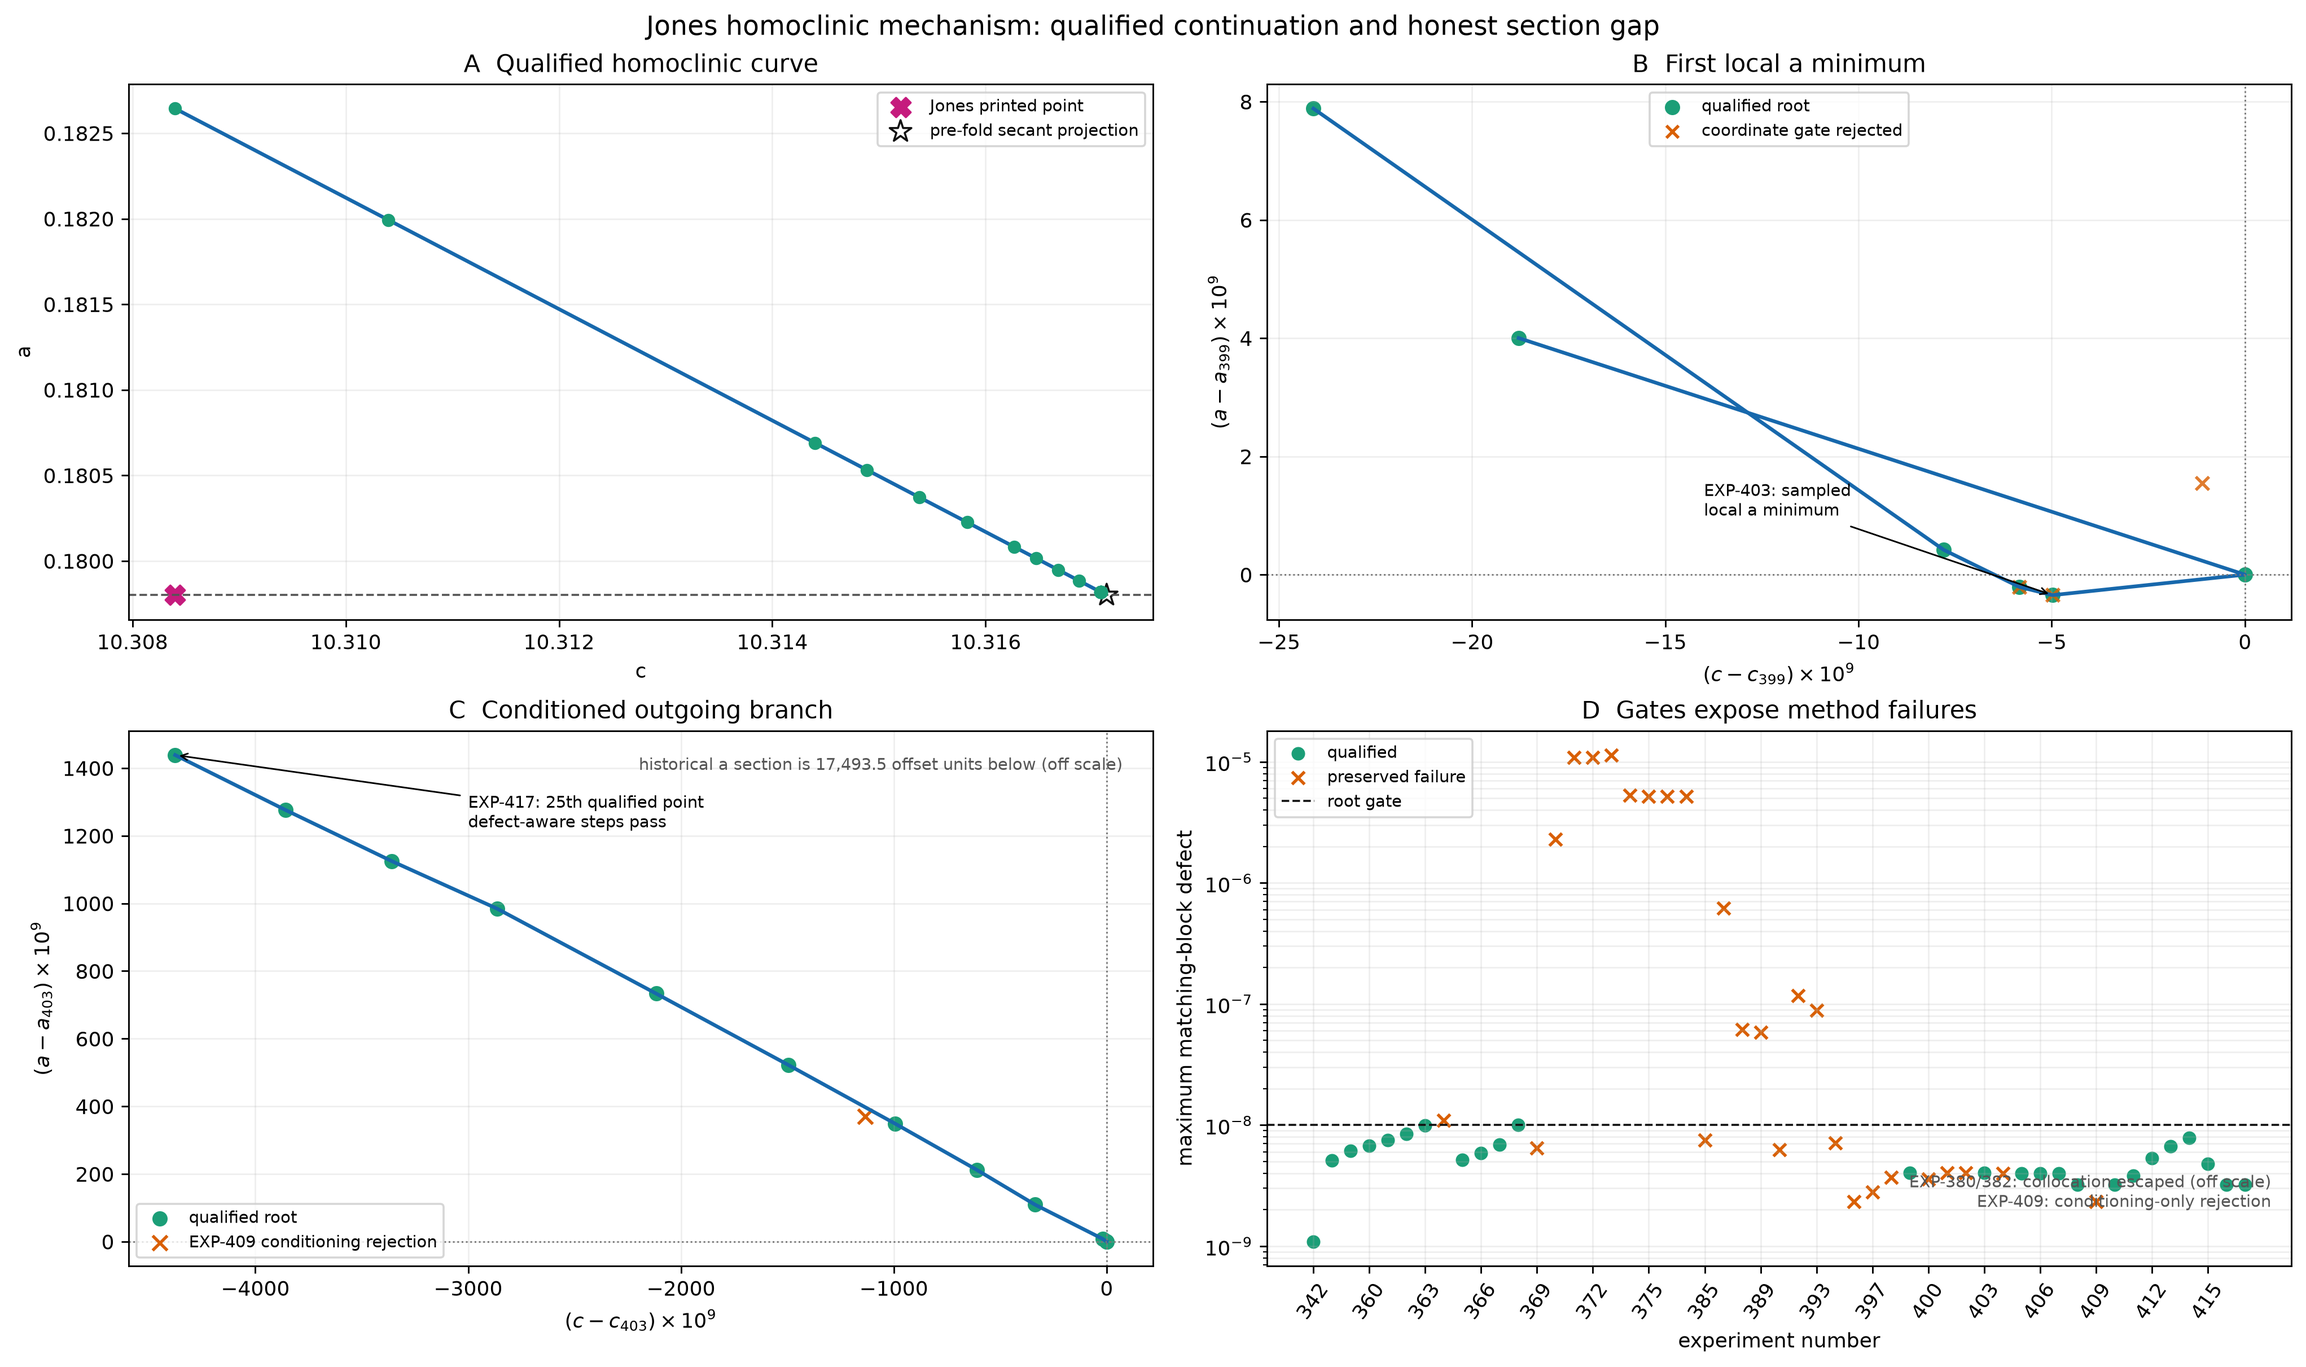
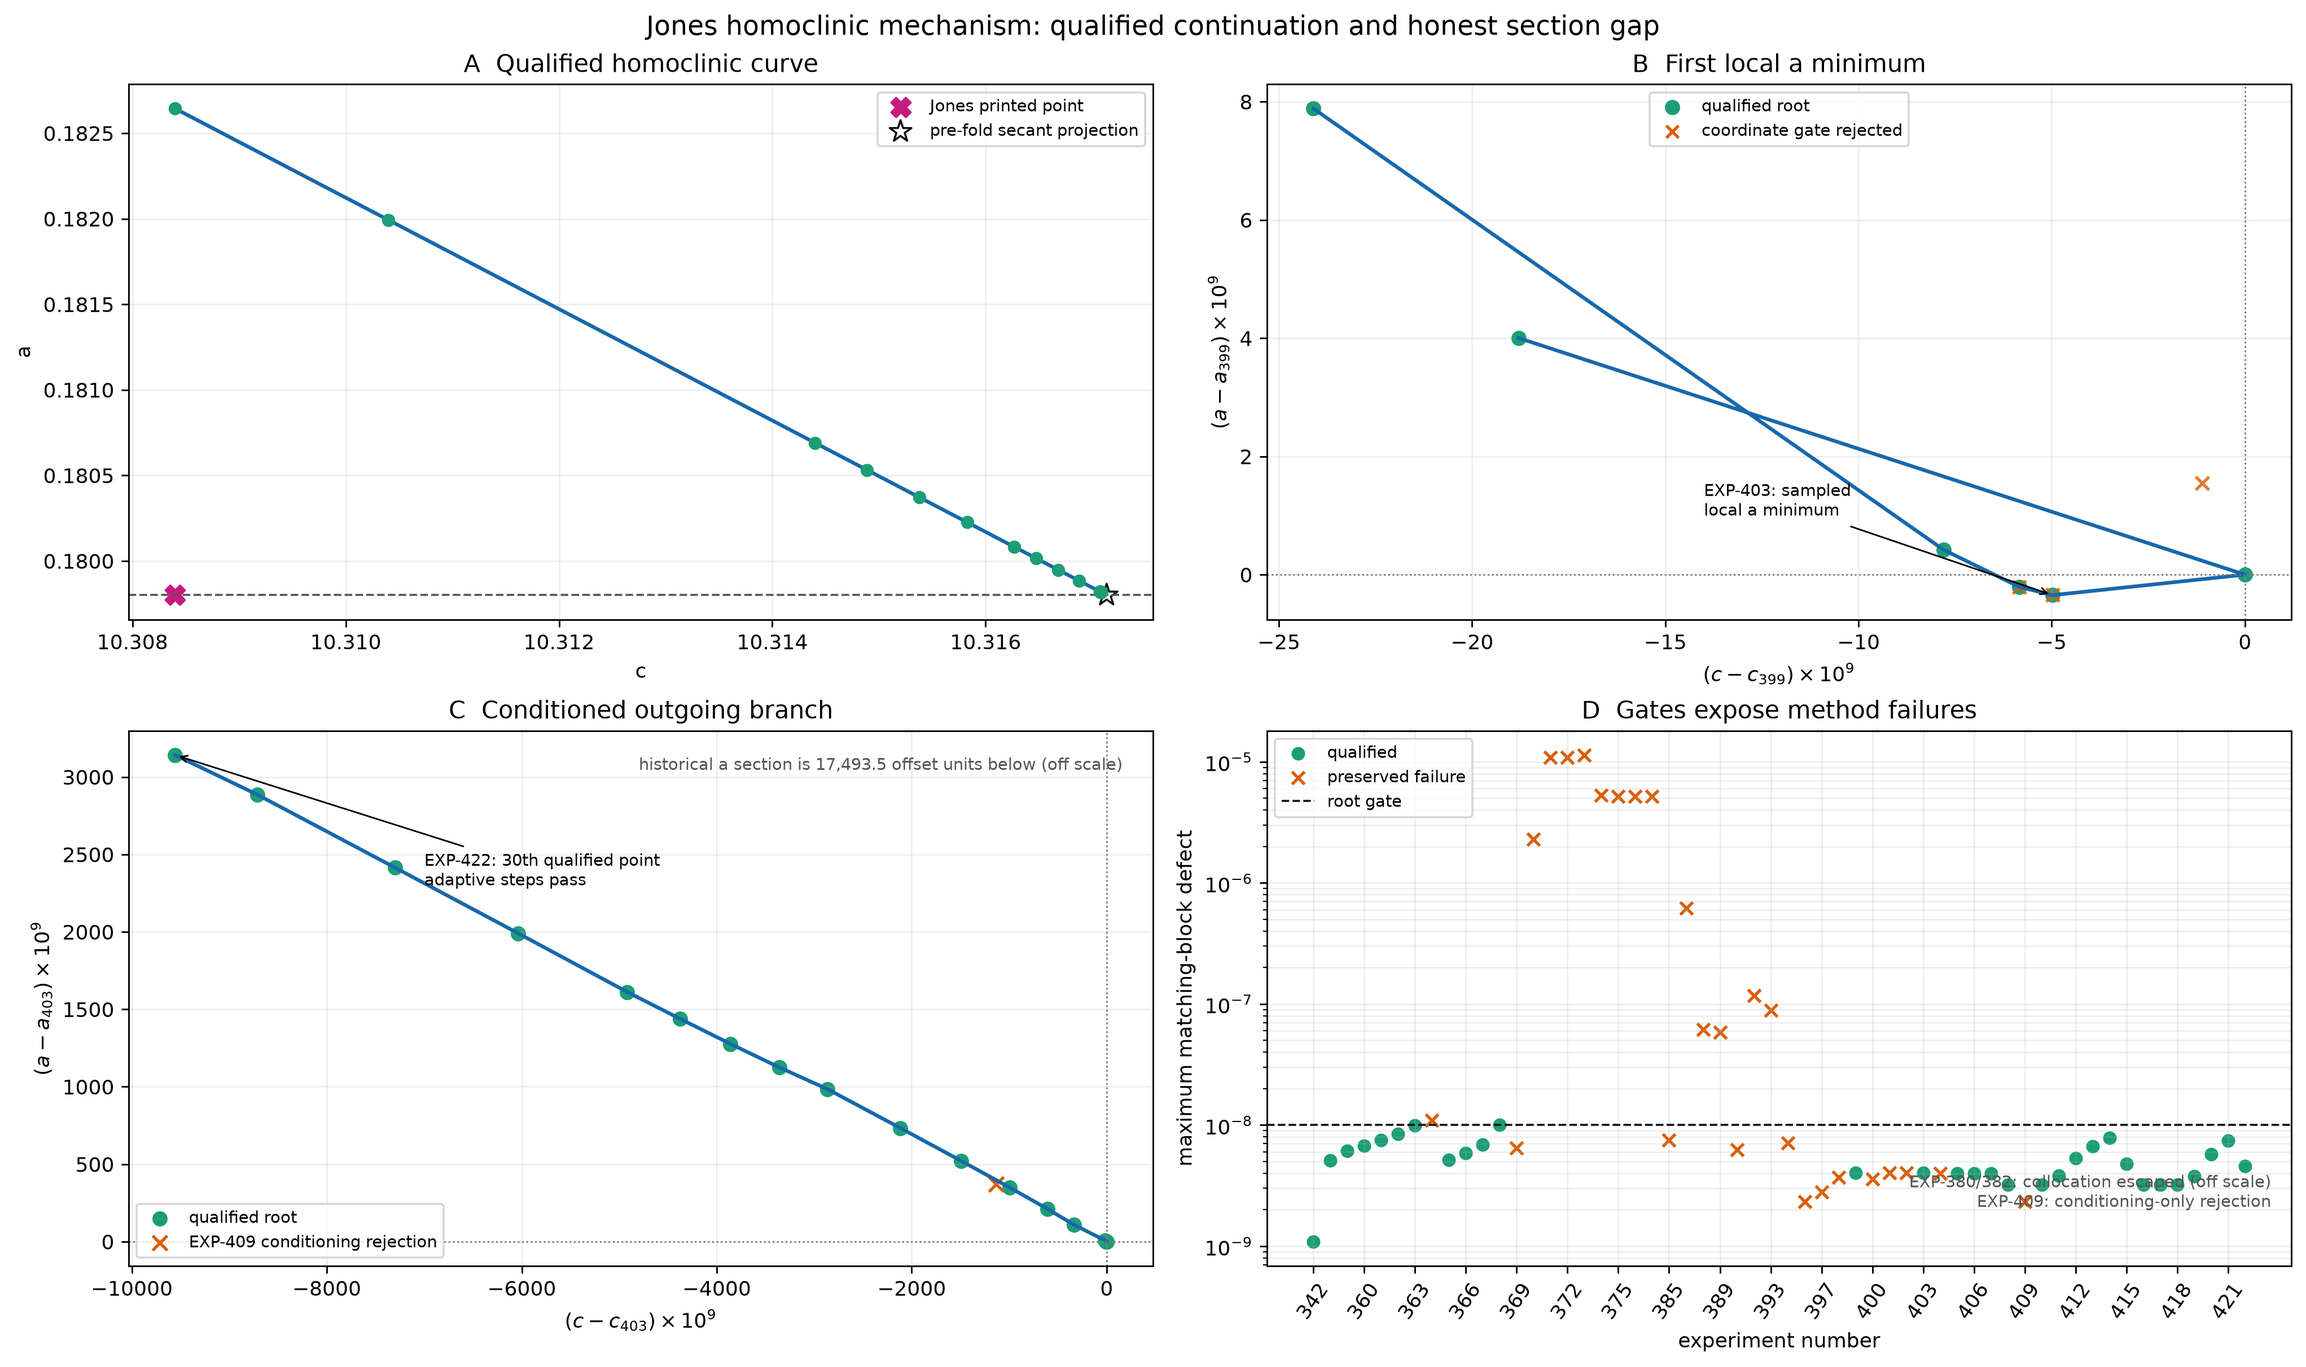
Render thirty-point homoclinic checkpoint

diff --git a/paper/sections/04-results.tex b/paper/sections/04-results.tex
@@ -169,8 +169,16 @@ $4.76\times10^{-9}$, and two further smaller steps reach
   (a,c)=(0.1798189322263,10.3170771259104)
 \]
 with $3.20\times10^{-9}$ maximum block defect and
-$1.17\times10^{-9}$ smallest measured singular value.  Thus twenty-five roots
-are qualified and the outgoing arm has passed eight consecutive newly
+$1.17\times10^{-9}$ smallest measured singular value.  Five further
+qualified points recompute the tangent at every root.  EXP-419--421 pass three
+consecutive doubled steps; when the defect rises to $73.9\%$ of its frozen
+gate, EXP-422 returns prospectively to the proven smaller step and reaches
+\[
+  (a,c)=(0.1798206348114,10.3170719468639)
+\]
+with $4.58\times10^{-9}$ maximum block defect and
+$1.10\times10^{-9}$ smallest measured singular value.  Thus thirty roots are
+qualified and the outgoing arm has passed thirteen consecutive newly
 computed tangents after EXP-408.  The first observed local turn moves away from the historical
 fixed-$a$ section, so it does not provide the printed intersection.  A later
 turn or another branch remains possible and global nonintersection is not
@@ -195,11 +203,11 @@ claimed.
   \centering
   \includegraphics[width=\textwidth]{figures/fig30-exp342-382-homoclinic-continuation.png}
   \caption{Continuation of the qualified homoclinic candidate toward Jones's
-  printed $a=0.1798$ section.  A: twenty-five qualified roots through EXP-417 and
+  printed $a=0.1798$ section.  A: thirty qualified roots through EXP-422 and
   the pre-fold EXP-367/368 secant extrapolation.  B: a nanoscopic offset view
   resolves the first sampled local minimum in $a$ and separates qualified
   signed-arclength steps from coordinate-gate rejections.  C: the outgoing
-  branch, the defect-aware step reduction, and EXP-409 conditioning-only
+  branch, defect-aware step control, and EXP-409 conditioning-only
   rejection show why adaptive step size is required.  D: every accepted point remains
   below the prospective $10^{-8}$ maximum-block-defect gate; the preserved
   failures expose conditioning and method limits rather than silently

diff --git a/paper/sections/07-conclusion.tex b/paper/sections/07-conclusion.tex
@@ -11,17 +11,18 @@ root lies about $0.00284361$ above printed $a=0.1798$.  A declared uniqueness
 audit remains open, and the numerical qualification is not a computer-assisted
 existence proof.  Two qualified natural-continuation points produce a plausible
 secant crossing near $c=10.31714$, but fixed-$c$ and fixed-$a$ correctors
-reproducibly stall above the root gate.  Twenty-two gauge-aligned two-parameter
-pseudo-arclength points through as many as 512 arcs pass, yielding twenty-five
+reproducibly stall above the root gate.  Twenty-seven gauge-aligned two-parameter
+pseudo-arclength points through as many as 512 arcs pass, yielding thirty
 qualified curve points.  The closest sampled point reaches
 $a=0.1798174935369$, only $1.74935\times10^{-5}$ above the historical section.
 Coordinate-free signed arclength then resolves this point as a first local
 minimum and follows the outgoing branch to larger $a$ and smaller $c$.
 EXP-410 passes every unchanged gate after a twice-larger step fails only the
-fixed conditioning floor.  Seven more newly tangent-computed steps pass;
-defect-aware step reduction keeps the last three below the root gate and
-reaches $(a,c)=(0.1798189322263,10.3170771259104)$.  The outgoing arm is
-therefore reproduced under eight newly computed tangents after EXP-408.  Thus
+fixed conditioning floor.  Twelve more newly tangent-computed steps pass.
+Three consecutive doubled steps are qualified; defect-aware reduction before
+EXP-422 returns the maximum block defect to $4.58\times10^{-9}$ and reaches
+$(a,c)=(0.1798206348114,10.3170719468639)$.  The outgoing arm is therefore
+reproduced under thirteen newly computed tangents after EXP-408.  Thus
 the first stall was not branch termination,
 but the first local turn does not intersect $a=0.1798$ and the pre-fold
 projection near $c=10.31713524$ cannot be promoted to a monotone-$c$

diff --git a/paper/sections/00-abstract.tex b/paper/sections/00-abstract.tex
@@ -16,13 +16,14 @@ three shrinking matching radii.  At fixed $c=10.3084$, however, its persistent
 value $a\simeq0.182643608174$ differs materially from the printed $a=0.1798$.
 Two qualified natural-continuation points point toward the historical fixed-$a$
 path, but repeated direct corrections reach reproducible residual floors.
-Twenty-two gauge-aligned two-parameter pseudo-arclength points
+Twenty-seven gauge-aligned two-parameter pseudo-arclength points
 through as many as 512 arcs pass the matching, arclength, conditioning, and
-direction gates.  Together the twenty-five qualified curve points reach within
+direction gates.  Together the thirty qualified curve points reach within
 $1.75\times10^{-5}$ in $a$ of the historical section.  Full-state signed
 arclength resolves the first sampled local $a$ minimum and follows the branch
-through eight tangent-recomputed steps toward larger $a$, including a
-defect-aware arclength reduction, so the pre-fold projected crossing near
+through thirteen tangent-recomputed steps toward larger $a$, including
+defect-aware reductions and a qualified doubled-step regime, so the pre-fold
+projected crossing near
 $c=10.31713524$ remains only an extrapolation.  The first residual floor was
 not immediate branch termination, although the exact historical intersection
 remains unqualified.

diff --git a/docs/updates/2026-08-25-exp342-382-homoclinic-curve.md b/docs/updates/2026-08-25-exp342-382-homoclinic-curve.md
@@ -1,21 +1,22 @@
-# EXP-342--382: qualified homoclinic curve and honest section gap
+# EXP-342--422: qualified homoclinic curve and honest section gap
 
 ## What is now established
 
 The revised-coordinate homoclinic candidate is no longer an isolated numerical
-root.  EXP-342, EXP-347, and EXP-350 qualify three natural-continuation points;
-EXP-360--363 and EXP-365--368 add eight chained, gauge-aligned
-pseudo-arclength points.  All eleven roots pass the prospective
-`1e-8` maximum matching-block gate.  The last accepted point is
+root.  EXP-342, EXP-347, and EXP-350 qualify the initial point and two
+natural-continuation successors; 27 chained pseudo-arclength roots bring the
+qualified total to 30.  Every accepted root passes the prospective `1e-8`
+maximum matching-block gate.  The closest sampled point is EXP-403:
 
 ```text
-(a, c) = (0.1798174978856614, 10.317081488741884)
-maximum block defect = 9.999341431358164e-9
+(a, c) = (0.17981749353685614, 10.317081502559637)
+historical a gap = 1.7493536856150183e-5
 ```
 
-It lies `1.74978856614e-5` above Jones's printed `a=0.1798` section.
-The last qualified secant has `da/dc=-0.3255565528874298` and projects a
-local crossing at `c=10.317135236348886`.
+The last accepted point, EXP-422, is
+`(a,c)=(0.1798206348113553,10.317071946863937)`.  The pre-fold EXP-367/368
+secant projects a local crossing at `c=10.317135236348886`, but the resolved
+local turn invalidates treating that projection as a monotone-`c` prediction.
 
 This is good evidence for Jones's proposed homoclinic organizing mechanism:
 the nearby connection persists as a smooth parameter curve and approaches the
@@ -42,12 +43,17 @@ multiple shooting.
 
 ## Manuscript checkpoint
 
-Figure 5 (`fig30-exp342-382-homoclinic-continuation.png`) now displays the full
-qualified curve, the remaining historical-section gap, and the failed-gate
-diagnostics.  The abstract, results, and conclusion all use the same eleven-root
-count and explicitly withhold the exact intersection claim.  The 54-page PDF
-passes the bibliography gate, compiles without layout warnings, and was
-visually checked at the abstract, homoclinic figures, and conclusion.
+Figure 5 (`fig30-exp342-382-homoclinic-continuation.png`) now displays all 30
+qualified roots through EXP-422, the sampled local minimum, the adaptive
+outgoing arm, and all 26 preserved failures.  Its receipt schema is
+`butterfly.exp342-422-homoclinic-continuation-figure.v1`; the image SHA-256 is
[1 lines of base64/hex data omitted]
+The abstract, results, conclusion, claim ledger, and finding record use the
+same 30-root count and explicitly withhold the exact intersection claim.
+The rebuilt manuscript remains 55 pages (10,154,870 bytes), with SHA-256
[1 lines of base64/hex data omitted]
+The LaTeX log contains no undefined references or overfull/underfull boxes;
+rendered pages 1, 11, 49, and 50 pass visual inspection.
 
 ## Weighted-plane control
 

diff --git a/docs/findings/FND-108-jones-homoclinic-revised-coordinate.md b/docs/findings/FND-108-jones-homoclinic-revised-coordinate.md
@@ -225,7 +225,36 @@ the local tangent's scaled `c` component falls by `4.27x`, so the same
 `Delta c=3.125e-8` inflates normalized arclength to `0.0196159` and again
 selects an interior backward root.  The runner now supports a prospectively
 fixed normalized step and derives its physical `c` request from each new local
-tangent; all 396 repository tests pass.
+tangent; all 396 repository tests at that checkpoint pass.
+
+## Signed-arclength resolution through EXP-422
+
+EXP-401--404 show that neither displayed coordinate is a reliable local
+orientation gate at this scale.  EXP-403 passes at
+`(a,c)=(0.1798174935369,10.3170815025596)` and is the first sampled local
+minimum in `a`; EXP-404 finds a clean full-state-forward root while both `a`
+and `c` reverse.  Secant-aligned signed arclength resolves that ambiguity.
+EXP-405--408 pass successively larger steps and establish the outgoing arm.
+EXP-409 reaches a clean farther root but is honestly rejected only by the
+fixed `5e-10` singular-value floor.
+
+EXP-410--418 then pass nine tangent-recomputed, defect-aware steps with every
+root, conditioning, arclength, boundary, and optimizer gate unchanged.
+EXP-419--421 qualify three consecutive doubled steps in two evaluations each.
+When EXP-421's maximum defect rises to `7.38780e-9`, EXP-422 prospectively
+returns to the proven quarter-step and passes at
+`(a,c)=(0.1798206348114,10.3170719468639)`, with `4.58385e-9` maximum defect,
+`1.10459e-9` minimum singular value, and `0.9913` node-boundary margin.
+
+The qualified curve now contains 30 roots, including 27 pseudo-arclength
+points.  Its outgoing arm is reproduced under 13 newly computed tangents after
+EXP-408.  This strongly supports persistence of Jones's proposed homoclinic
+mechanism near the reported hub and rejects the interpretation that the first
+residual floor was immediate branch termination.  It does not rescue the
+printed coordinate: EXP-403 remains `1.74935e-5` above `a=0.1798`, and the
+first local turn subsequently moves away.  Later turns, other branches, an
+exact historical-section intersection, global nonintersection, uniqueness,
+and computer-assisted existence remain open.
 
 ## Limits
 
@@ -236,5 +265,5 @@ is the matched boundary-value solution. Pseudo-arclength or collocation
 continuation, an explicit phase/gauge condition, and eventually validated
 numerics remain required.
 
-Evidence: EXP-341 through EXP-400, including preserved negative results and
+Evidence: EXP-341 through EXP-422, including preserved negative results and
 their hash-bound compact receipts.

diff --git a/docs/claim-ledger.md b/docs/claim-ledger.md
@@ -6,6 +6,18 @@ This ledger separates the paper's claims from current conclusions. Literature
 assessments in the dated review are research leads until their primary sources
 are independently verified.
 
+Latest CLM-003 checkpoint: five additional receipt-bound points, EXP-418--422,
+raise the qualified curve total from 25 to 30 and the pseudo-arclength total
+from 22 to 27.  Three consecutive doubled steps pass before a prospective
+defect-aware reduction; EXP-422 reaches
+`(a,c)=(0.1798206348114,10.3170719468639)` with `4.58385e-9` maximum defect and
+`1.10459e-9` minimum singular value.  The outgoing arm is now reproduced under
+13 newly computed tangents after EXP-408.  EXP-403 remains the first sampled
+local `a` minimum and the closest point to `a=0.1798`; therefore the printed
+intersection, any later return, global nonintersection, proof, and uniqueness
+remain open.  This paragraph supersedes the earlier EXP-417 count retained in
+the detailed chronological CLM-003 row below.
+
 | ID | Claim | Current state | Recovered-code coverage | Required acceptance test |
 |---|---|---|---|---|
 | CLM-001 | A primary periodicity hub and nested spirals exist for the Rössler system at fixed `b = 0.2` in the `(a,c)` plane. | Original claim; reported as externally supported, source verification pending | Partial: an MPI period-map kernel exists | Reproduce the hub with two independent integrators; publish convergence, horizon, and basin tests |

diff --git a/docs/TODO.md b/docs/TODO.md
@@ -1207,8 +1207,10 @@ acceptance evidence exists in tests, receipts, or a cited experiment record.
   EXP-420 repeats it and adds the twenty-eighth; EXP-421 passes a third double
   step and adds the twenty-ninth. Execute frozen defect-aware EXP-422 at the
   proven quarter-step with every gate unchanged. EXP-422 passes and adds the
-  thirtieth point; regenerate the receipt-bound 30-point figure and manuscript
-  checkpoint.
+  thirtieth point. The receipt-bound 30-point figure and manuscript checkpoint
+  are regenerated. Continue the outgoing branch with the same prospective
+  defect-aware policy while separately defining bounded later-turn and
+  uniqueness/nonintersection audits.
 - [ ] **P2-003 — Validated numerics.** Interval validation of selected decisive
   orbits, windows, crossings, and forcing/covering statements.
 - [ ] **P2-004 — Two-system qualification.** Add two structurally different

diff --git a/paper/README.md b/paper/README.md
@@ -60,10 +60,11 @@ EXP-229 correction of the former interpolation-based second-boundary claim.
 The new cascade figure resolves three exact returning-arm flip events and
 their independently qualified stable children through primitive period 96,
 while displaying the finite-spacing and universality claim boundary.
-The latest homoclinic figure follows all twenty-five qualified curve points to
+The latest homoclinic figure follows all thirty qualified curve points to
 within $1.75\times10^{-5}$ in $a$ of the historical section, resolves the
 first local $a$ minimum and defect-aware outgoing branch at nanoscopic scale,
-and displays prospective gate failures separately from the accepted branch.
+shows the qualified doubled-step regime and later defect-aware reduction, and
+displays prospective gate failures separately from the accepted branch.
 
 ## Writing rules
 

diff --git a/docs/updates/README.md b/docs/updates/README.md
@@ -23,9 +23,9 @@ details live under `docs/experiments/` and `docs/experiments/receipts/`.
 ## Entries
 
 - [`2026-08-25-exp342-382-homoclinic-curve.md`](2026-08-25-exp342-382-homoclinic-curve.md)
-  — twenty-five qualified multiple-shooting roots approach within `1.75e-5` in
+  — thirty qualified multiple-shooting roots approach within `1.75e-5` in
   `a` of Jones's historical section, resolve the first local `a` minimum, and
-  continue through eight newly tangent-computed, defect-aware steps on its
+  continue through thirteen newly tangent-computed, defect-aware steps on its
   outgoing branch; the exact intersection and uniqueness stay open.
 
 - [`2026-08-23-exp329-331-homoclinic-angle-scans.md`](2026-08-23-exp329-331-homoclinic-angle-scans.md)
